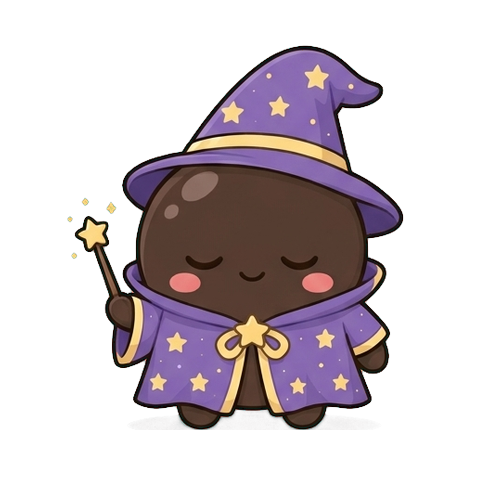
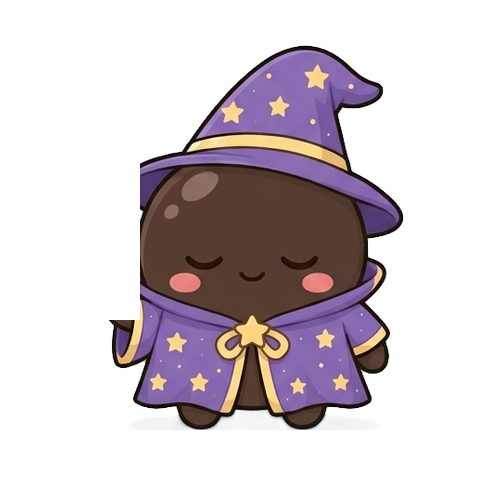
Break-mode polish: wizard wand removed, ninja Z, grad-cap floats
- Wizard was visibly holding the wand in his sleep (every other skin's
  props are hidden below the bedding). Erased the wand pixels from
  wizard-sleeping.png; pose integrity gate PASSES.
- Ninja's sword pommel sat right next to the sleep-Z stack in break mode
  (same clash pattern as devil trident). Nudged the Z stack right + up
  when ninja is equipped, matching the devil treatment.
- Grad-cap's idle PNG has 97px of bottom transparency vs the pack's ~73,
  so object-fit:contain floated grad-cap ~24px above the counter lip.
  Shifted the whole maker-wrap down 24px for the grad-cap skin so his
  feet register with the counter like every other skin.

sw.js CACHE -> v214.

Changed region(s): [[0.12, 0.33, 0.3, 0.66]]

diff --git a/styles.css b/styles.css
@@ -1363,6 +1363,15 @@ body {
   left: calc(24px + var(--stage-shift));
 }
 
+/* Grad-cap's 500x500 PNG has 97px of bottom transparency (base is 73px), so
+   object-fit:contain + object-position:bottom-center leaves this skin
+   visually floating ~24px above the counter lip vs every other skin whose
+   feet land on it. Push the whole wrap down 24px so his feet register with
+   the counter like everyone else. */
+.scene[data-skin="grad-cap"] .maker-wrap {
+  bottom: calc(var(--floor-y) - 8px);   /* 16px default - 24px shift */
+}
+
 .maker-img {
   width: 100%;
   height: 100%;
@@ -1520,6 +1529,12 @@ body {
 .scene[data-skin="devil"] .break-zzz {
   left: calc(50% + 80px);
   bottom: calc(var(--floor-y) + 224px);
+}
+/* Ninja's sword hilt sits directly to the right of the head in the same area
+   as the Z stack; nudge them right + up so the pommel doesn't crowd them. */
+.scene[data-skin="ninja"] .break-zzz {
+  left: calc(50% + 90px);
+  bottom: calc(var(--floor-y) + 230px);
 }
 /* Floating zzz while napping. Every character needs it now: the old base nap art
    had zzz drawn into the picture, the new generated set deliberately has no text

diff --git a/sw.js b/sw.js
@@ -7,7 +7,7 @@
 // and every user silently keeps the OLD cache — updates stop shipping with no
 // error anywhere. That happened: assets/Bed.png was deleted and left listed
 // here, which pinned clients to pre-rebuild art. tools/check-shell.py guards it.
-const CACHE = "mr-tapioca-v213";
+const CACHE = "mr-tapioca-v214";
 
 // Focus-tune audio lives in its OWN cache, on purpose, and is deliberately NOT
 // in SHELL below. Two reasons, both learned the hard way:
